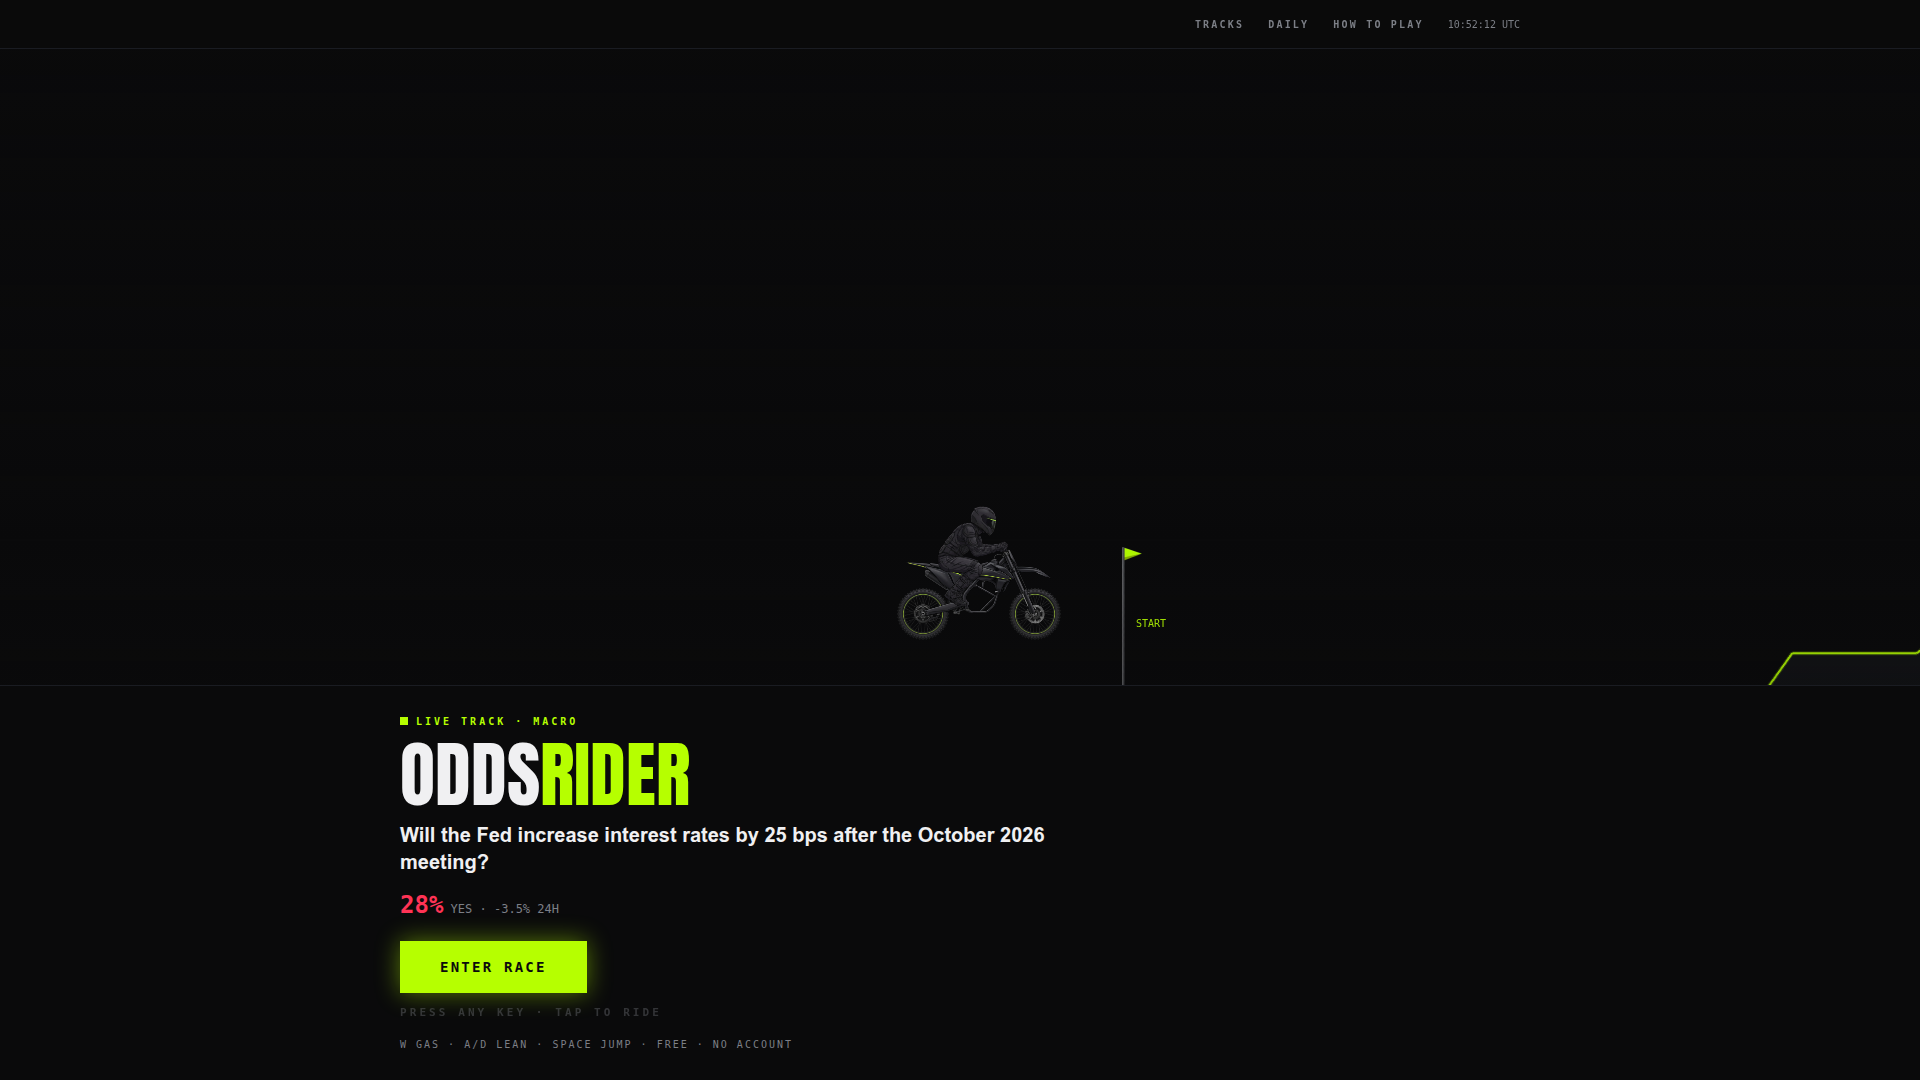
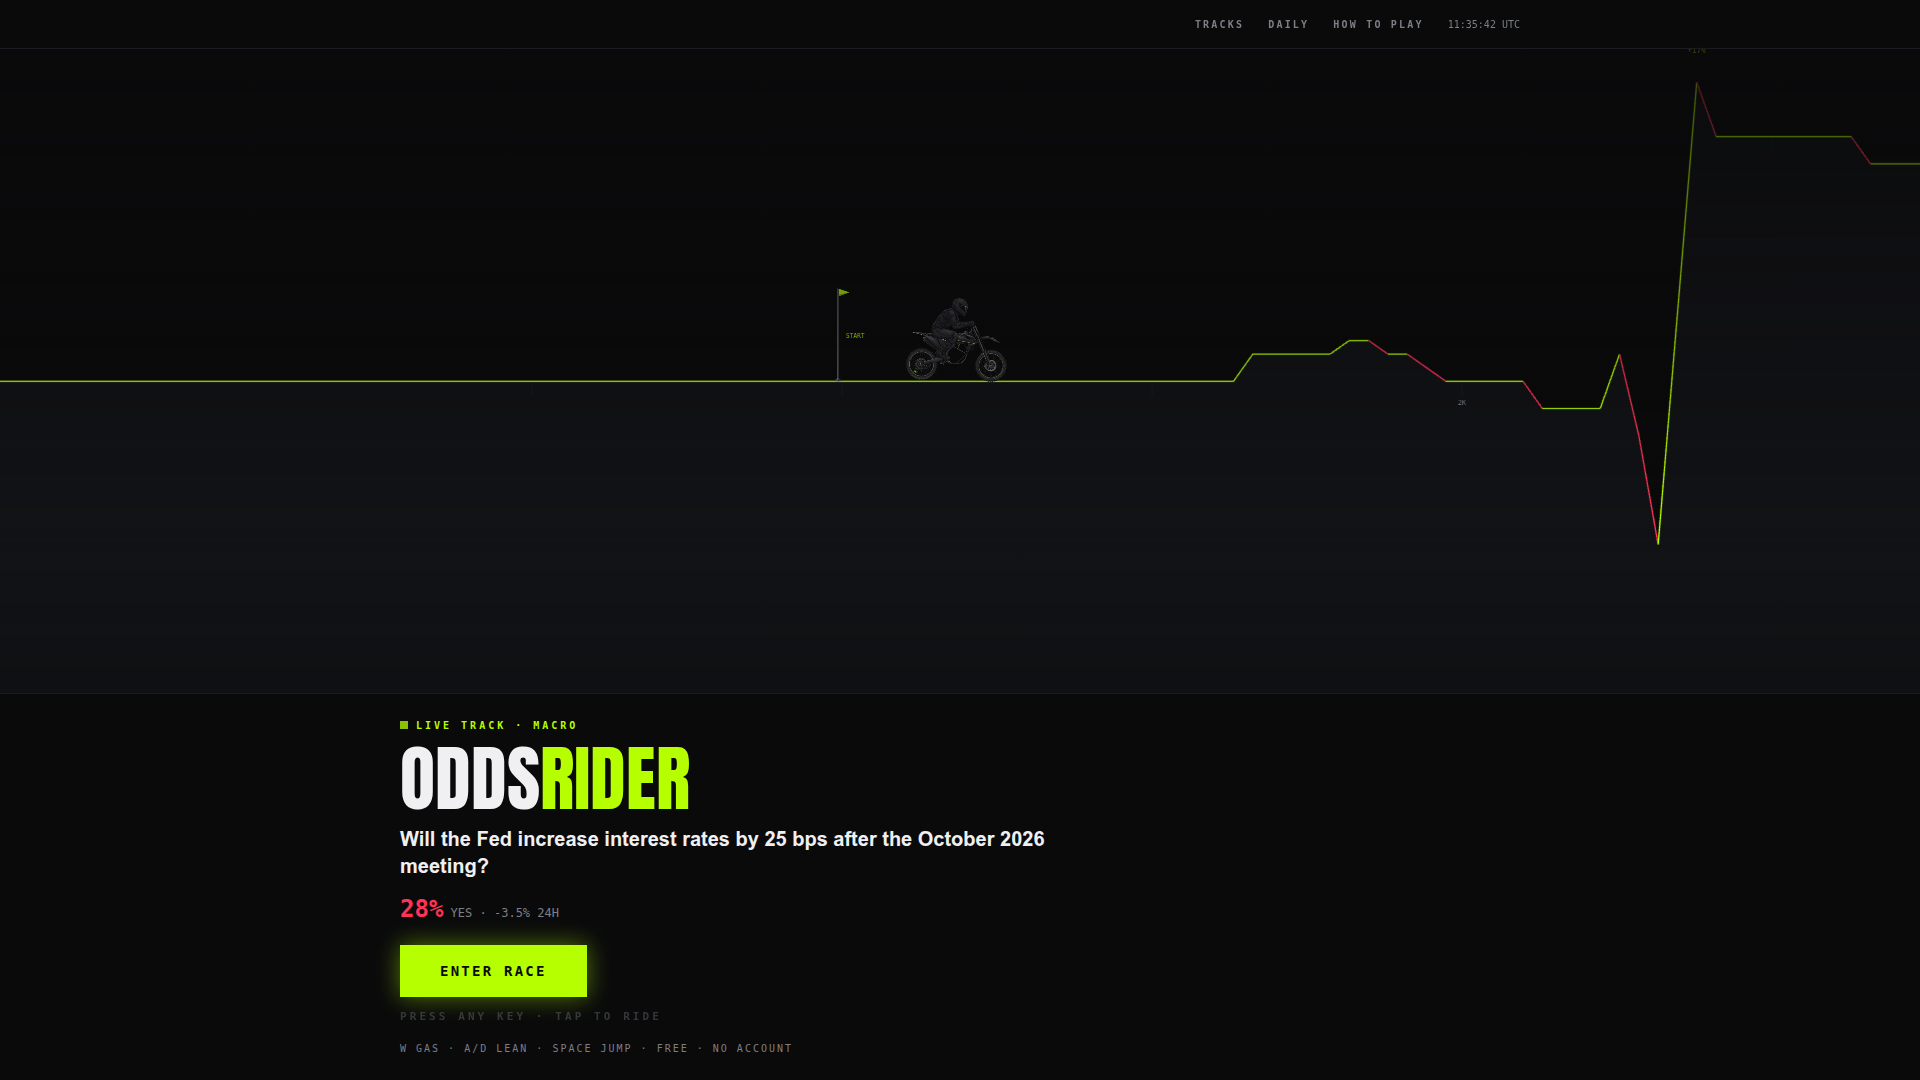
Review fixes 2: attract framing, unified momentum color, title feature

diff --git a/src/pages/TitleScreen.tsx b/src/pages/TitleScreen.tsx
@@ -1,9 +1,9 @@
 import { Suspense, lazy, useCallback, useEffect, useMemo, useRef } from 'react';
 import { useNavigate } from 'react-router-dom';
 import TopStrip from '../components/TopStrip';
-import { bus, EV } from '../game/bus';
+import { activeRideStore, bus, EV } from '../game/bus';
 import { useMarkets } from '../data/marketsContext';
-import { fetchRideForTrack, getTitleFeature, type RideableMarket } from '../data/tracks';
+import { fetchRideForTrack, getTitleFeature, momentumUp, type RideableMarket } from '../data/tracks';
 
 const PhaserGame = lazy(() => import('../game/PhaserGame'));
 
@@ -23,13 +23,18 @@ export default function TitleScreen() {
   );
   const started = useRef(false);
 
-  // Roll out the featured terrain under the menu.
+  // Roll out the featured terrain under the menu. The attract flag travels
+  // in the store itself (not just the emitted copy) so a scene that boots
+  // after the emit still applies the wide showroom framing.
   useEffect(() => {
     if (!featured) return;
     let cancelled = false;
     fetchRideForTrack(featured, false, 'ALL')
       .then((ride) => {
-        if (!cancelled) bus.emit(EV.LOAD_MARKET, { ...ride, attract: true });
+        if (cancelled) return;
+        const attractRide = { ...ride, attract: true };
+        activeRideStore.current = attractRide;
+        bus.emit(EV.LOAD_MARKET, attractRide);
       })
       .catch(() => {
         // Attract is decoration; the menu works without it.
@@ -39,12 +44,58 @@ export default function TitleScreen() {
     };
   }, [featured]);
 
-  // Autopilot: hold gas for the whole visit.
+  // Autopilot: hold gas for the whole visit. The key goes down only once the
+  // scene exists (its InputManager listens on window), and is re-asserted
+  // on focus because the game clears keys on blur.
   useEffect(() => {
-    window.dispatchEvent(new KeyboardEvent('keydown', { code: 'KeyW' }));
+    let cancelled = false;
+    let timer = 0;
+    const hold = () => {
+      if (cancelled) return;
+      const handle = (window as unknown as { __oddsrider?: unknown }).__oddsrider;
+      if (handle) {
+        window.dispatchEvent(new KeyboardEvent('keydown', { code: 'KeyW' }));
+      } else {
+        timer = window.setTimeout(hold, 250);
+      }
+    };
+    hold();
+    const refocus = () => window.dispatchEvent(new KeyboardEvent('keydown', { code: 'KeyW' }));
+    window.addEventListener('focus', refocus);
     return () => {
+      cancelled = true;
+      window.clearTimeout(timer);
+      window.removeEventListener('focus', refocus);
       window.dispatchEvent(new KeyboardEvent('keyup', { code: 'KeyW' }));
     };
+  }, []);
+
+  // Attract watchdog: full gas with no skill wedges or loops crashes. If the
+  // bike is crashed, or sim time advances a full second with no forward
+  // progress, restart it via the game's own reset path so the backdrop keeps
+  // riding. Sim-gated (not wall-clock) so slow headless GPUs don't cause
+  // spurious restarts.
+  const lastProbe = useRef<{ x: number; simMs: number } | null>(null);
+  useEffect(() => {
+    const t = window.setInterval(() => {
+      const handle = (window as unknown as { __oddsrider?: Record<string, () => unknown> }).__oddsrider;
+      if (!handle) return;
+      try {
+        const x = handle.x() as number;
+        const simMs = handle.simMs() as number;
+        const crashed = handle.crashed() as boolean;
+        const prev = lastProbe.current;
+        if (crashed || (prev !== null && simMs - prev.simMs >= 1000 && Math.abs(x - prev.x) < 5)) {
+          bus.emit(EV.RESTART);
+          lastProbe.current = null;
+        } else {
+          lastProbe.current = { x, simMs };
+        }
+      } catch {
+        // Debug handle not ready yet.
+      }
+    }, 2500);
+    return () => window.clearInterval(t);
   }, []);
 
   const goRide = useCallback(() => {
@@ -56,10 +107,13 @@ export default function TitleScreen() {
   }, [featured, navigate]);
 
   // Any key rides — except when the player is working a control on purpose.
+  // (e.target can be window/document for synthetic events: no .closest there.)
   useEffect(() => {
     const onKey = (e: KeyboardEvent) => {
+      // Synthetic keys (including the attract autopilot's held gas) never ride.
+      if (!e.isTrusted) return;
       const el = e.target as HTMLElement | null;
-      if (el && el.closest('a,button,input,textarea')) return;
+      if (el && typeof el.closest === 'function' && el.closest('a,button,input,textarea')) return;
       if (e.metaKey || e.ctrlKey || e.altKey) return;
       e.preventDefault();
       goRide();
@@ -69,7 +123,8 @@ export default function TitleScreen() {
   }, [goRide]);
 
   const pct = featured ? Math.round(featured.currentProb * 100) : 0;
-  const up = (featured?.currentProb ?? 0) >= 0.5;
+  // Same momentum rule as everywhere else: 24h direction, not level.
+  const up = momentumUp(featured?.probDelta ?? null);
   const delta = featured?.probDelta;
   const deltaLabel =
     delta === null || delta === undefined
@@ -81,7 +136,7 @@ export default function TitleScreen() {
       className="relative w-full h-[100svh] min-h-[540px] overflow-hidden bg-[#0a0a0b] select-none"
       onClick={(e) => {
         const el = e.target as HTMLElement | null;
-        if (el && el.closest('a,button')) return;
+        if (el && typeof el.closest === 'function' && el.closest('a,button')) return;
         goRide();
       }}
     >
@@ -113,7 +168,7 @@ export default function TitleScreen() {
         {/* Solid backing: the hero text sits fully below the world — no ground
             line or bike ever crosses it, at any viewport. */}
         <div className="pointer-events-none w-full bg-[#0a0a0b] border-t border-[#1a1c22]">
-          <div className="max-w-6xl mx-auto w-full px-4 py-6 sm:py-7 flex flex-col">
+          <div className="max-w-6xl mx-auto w-full px-4 py-5 sm:py-6 flex flex-col">
             {featured ? (
               <div className="flex flex-col gap-3 max-w-2xl">
                 <span className="font-mono text-[10px] font-bold tracking-[0.3em] uppercase">

diff --git a/src/game/scenes/RideScene.ts b/src/game/scenes/RideScene.ts
@@ -41,6 +41,13 @@ export class RideScene extends Phaser.Scene {
 
   private muted = loadMuted();
   private wasGrounded = false;
+  private attractLiftY = 0;
+  // Guards the boot race: the shell may emit a ride before or after the
+  // scene's own fallback fetch resolves. First application wins; the
+  // fallback never overwrites an already-applied ride.
+  private rideApplied = false;
+  // Attract-mode camera lift (world units): framing only, so the bike rides
+  // in the upper band above the title panel. Zero on playable rides.
   private acc = 0;
   private crashHandled = false;
   private nextSpeedEmitAt = 0;
@@ -110,9 +117,11 @@ export class RideScene extends Phaser.Scene {
   }
 
   private applyRide(ride: Ride): void {
+    this.rideApplied = true;
     // Attract mode pulls back for a wide showroom shot; the follow lerp
     // only moves scroll, so zoom persists. Playable rides stay at 1.
     this.cameras.main.setZoom(ride.attract === true ? 0.62 : 1);
+    this.attractLiftY = ride.attract === true ? 350 : 0;
     const terrain = buildTerrain(ride.series);
     this.terrain = terrain;
     this.rideDifficulty = ride.market.difficulty;
@@ -149,6 +158,7 @@ export class RideScene extends Phaser.Scene {
       grounded: () => this.bike.grounded,
       crashed: () => this.bike.crashed,
       nitro: () => this.bike.nitro,
+      zoom: () => this.cameras.main.zoom,
       prob: () => (this.terrain ? probabilityAt(this.terrain.points, this.bike.x) : null),
       score: () => this.score.total,
       simMs: () => this.score.timeMs,
@@ -172,7 +182,8 @@ export class RideScene extends Phaser.Scene {
   private async loadRide(): Promise<void> {
     try {
       const ride = await fetchRide();
-      this.applyRide(ride);
+      // Never overwrite a ride the shell already delivered (attract race).
+      if (!this.rideApplied) this.applyRide(ride);
     } catch (err) {
       console.warn('loadRide failed', err);
       bus.emit(EV.MARKET, null);
@@ -361,7 +372,7 @@ export class RideScene extends Phaser.Scene {
       const dir = Math.sign(this.bike.chassis.velocity.x) || 1;
       const look = dir * Math.min(spd * 0.22, 220);
       tx = this.bike.chassis.position.x + look;
-      ty = this.bike.chassis.position.y - 40;
+      ty = this.bike.chassis.position.y - 40 + this.attractLiftY;
     }
     cam.scrollX += (tx - cam.width / 2 - cam.scrollX) * 0.08;
     cam.scrollY += (ty - cam.height / 2 - cam.scrollY) * 0.08;

diff --git a/src/pages/TracksPage.tsx b/src/pages/TracksPage.tsx
@@ -3,7 +3,7 @@ import { Link, useNavigate } from 'react-router-dom';
 import TopStrip from '../components/TopStrip';
 import MiniTrack from '../components/MiniTrack';
 import { useMarkets } from '../data/marketsContext';
-import { getHomePageData, type RideableMarket } from '../data/tracks';
+import { getHomePageData, momentumUp, type RideableMarket } from '../data/tracks';
 
 function rideUrl(market: RideableMarket, inverted: boolean): string {
   return `/ride/${market.id}${inverted ? '?side=no' : ''}`;
@@ -27,9 +27,8 @@ function TrackRow({
   // One colour rule for the whole row, mirroring the in-game track renderer
   // (`seg.rising ? toxic : crimson`): the 24h direction colours BOTH the
   // silhouette and the number. A 77% that fell today reads red; a 23% that
-  // climbed reads green — momentum, not level.
-  const deltaUp = (market.probDelta ?? 0) >= 0;
-  const momentum = deltaUp ? 'text-toxic' : 'text-crimson';
+  // climbed reads green — momentum, not level. See momentumUp.
+  const momentum = momentumUp(market.probDelta) ? 'text-toxic' : 'text-crimson';
 
   return (
     <div className="rise group relative flex flex-col lg:flex-row lg:items-center gap-3 lg:gap-6 px-4 sm:px-5 py-4 border-t border-[#232529] hover:bg-[#101113] transition-colors ease-[cubic-bezier(0.16,1,0.3,1)] select-none">
@@ -66,7 +65,7 @@ function TrackRow({
       </div>
 
       <div className="w-full sm:w-44 shrink-0 opacity-90 group-hover:opacity-100 transition-opacity">
-        <MiniTrack pts={market.sparkline} deltaUp={deltaUp} />
+        <MiniTrack pts={market.sparkline} deltaUp={momentumUp(market.probDelta)} />
       </div>
 
       <div className="flex lg:flex-col items-baseline lg:items-end gap-x-2 shrink-0 lg:w-24">

diff --git a/src/pages/DailyPage.tsx b/src/pages/DailyPage.tsx
@@ -3,7 +3,7 @@ import { Link, useNavigate, useSearchParams } from 'react-router-dom';
 import TopStrip from '../components/TopStrip';
 import MiniTrack from '../components/MiniTrack';
 import { useMarkets } from '../data/marketsContext';
-import { getDailyChallenge, type RideableMarket } from '../data/tracks';
+import { getDailyChallenge, momentumUp, type RideableMarket } from '../data/tracks';
 import { getMarketBest as getBest } from '../data/playerStorage';
 
 function utcToday(): string {
@@ -43,8 +43,7 @@ export default function DailyPage() {
   const best = pick ? getBest(pick.id) : null;
 
   const pct = pick ? Math.round(pick.currentProb * 100) : 0;
-  const up = (pick?.currentProb ?? 0) >= 0.5;
-  const deltaUp = ((pick?.probDelta ?? 0) >= 0);
+  const up = momentumUp(pick?.probDelta ?? null);
 
   return (
     <div className="w-full flex flex-col min-h-screen bg-[#0a0a0b] text-[#f0f0f2]">
@@ -105,7 +104,7 @@ export default function DailyPage() {
               </button>
             </div>
             <div className="border-t border-[#3a2f12] pt-4 flex flex-col gap-2">
-              <MiniTrack pts={pick.sparkline} deltaUp={deltaUp} />
+              <MiniTrack pts={pick.sparkline} deltaUp={up} />
               <p className="font-mono text-[10px] tracking-[0.2em] text-dim uppercase">
                 Today&apos;s terrain · W gas · A/D lean · Space jump · Shift nitro
               </p>

diff --git a/src/components/HudOverlay.tsx b/src/components/HudOverlay.tsx
@@ -3,6 +3,7 @@ import { bus, EV } from "../game/bus";
 import ResultModal from "./ResultModal";
 import TouchControls from "./TouchControls";
 import { loadMuted } from "../game/audio";
+import { momentumUp } from "../data/tracks";
 import type { Difficulty } from "../data/tracks";
 
 const TOXIC = "#b6ff00";
@@ -191,10 +192,12 @@ export default function HudOverlay({ onOpenLobby, rideUrl }: HudOverlayProps) {
   const deltaLabel = !deltaKnown ? "—" : `${deltaUp ? "+" : ""}${((market?.probDelta ?? 0) * 100).toFixed(1)}%`;
   // Official contract odds. The live under-wheels value (EV.PROB) feeds the
   // minimap dot and the result screen — never the hero number.
-  const chanceUp = market ? market.currentProb >= 0.5 : deltaUp;
+  // Hero number follows the same momentum rule as the terrain colours
+  // (momentumUp): rising reads toxic, falling reads crimson.
+  const chanceUp = momentumUp(market?.probDelta ?? null);
   const probPct = market ? market.currentProb * 100 : prob === null ? null : prob * 100;
   const heroColor = probPct === null ? DIM : chanceUp ? TOXIC : CRIMSON;
-  const fullQuestion = market?.question ?? "LOADING LIVE POLYMARKET DATA...";
+  const fullQuestion = market?.question ?? "LOADING TRACK DATA...";
 
   const toggleMute = useCallback(() => {
     window.dispatchEvent(new KeyboardEvent("keydown", { code: "KeyM" }));

diff --git a/src/data/tracks.test.ts b/src/data/tracks.test.ts
@@ -10,6 +10,7 @@ import {
   getHomePageData,
   getTitleFeature,
   isLiveList,
+  momentumUp,
   rideIntervalFromParam,
   sameFeed,
   simpleHash,
@@ -102,8 +103,19 @@ describe('simpleHash', () => {
   });
 });
 
-describe('isLiveList', () => {
-  it('is true only when a live track is listed', () => {
+describe('momentumUp', () => {
+  it('reads 24h direction, never level', () => {
+    expect(momentumUp(0.02)).toBe(true);
+    expect(momentumUp(-0.3)).toBe(false);
+    expect(momentumUp(0)).toBe(true);
+  });
+
+  it('defaults unknown deltas to rising, like the terrain renderer', () => {
+    expect(momentumUp(null)).toBe(true);
+  });
+});
+
+describe('isLiveList', () => {  it('is true only when a live track is listed', () => {
     expect(isLiveList([view(), view({ kind: 'closed', resolution: 'NO' })])).toBe(true);
     expect(isLiveList([view({ kind: 'closed', resolution: 'NO' })])).toBe(false);
     expect(isLiveList([])).toBe(false);

diff --git a/src/data/tracks.ts b/src/data/tracks.ts
@@ -228,6 +228,14 @@ export function isLiveList(markets: RideableMarket[]): boolean {
   return markets.some((m) => m.kind === 'live');
 }
 
+// One colour rule for every odds number and every track line, mirroring the
+// in-game terrain renderer (`seg.rising ? toxic : crimson` in
+// terrain.ts/trackRenderer: a segment is toxic when probability does not
+// fall). Unknown or flat deltas count as rising, same as the renderer.
+export function momentumUp(probDelta: number | null): boolean {
+  return (probDelta ?? 0) >= 0;
+}
+
 // Biggest 24h movers: live tracks with a known delta, ranked by absolute
 // swing. Unknown deltas never qualify — no guessing.
 export function getBiggestMovers(markets: RideableMarket[], n = 4): RideableMarket[] {
